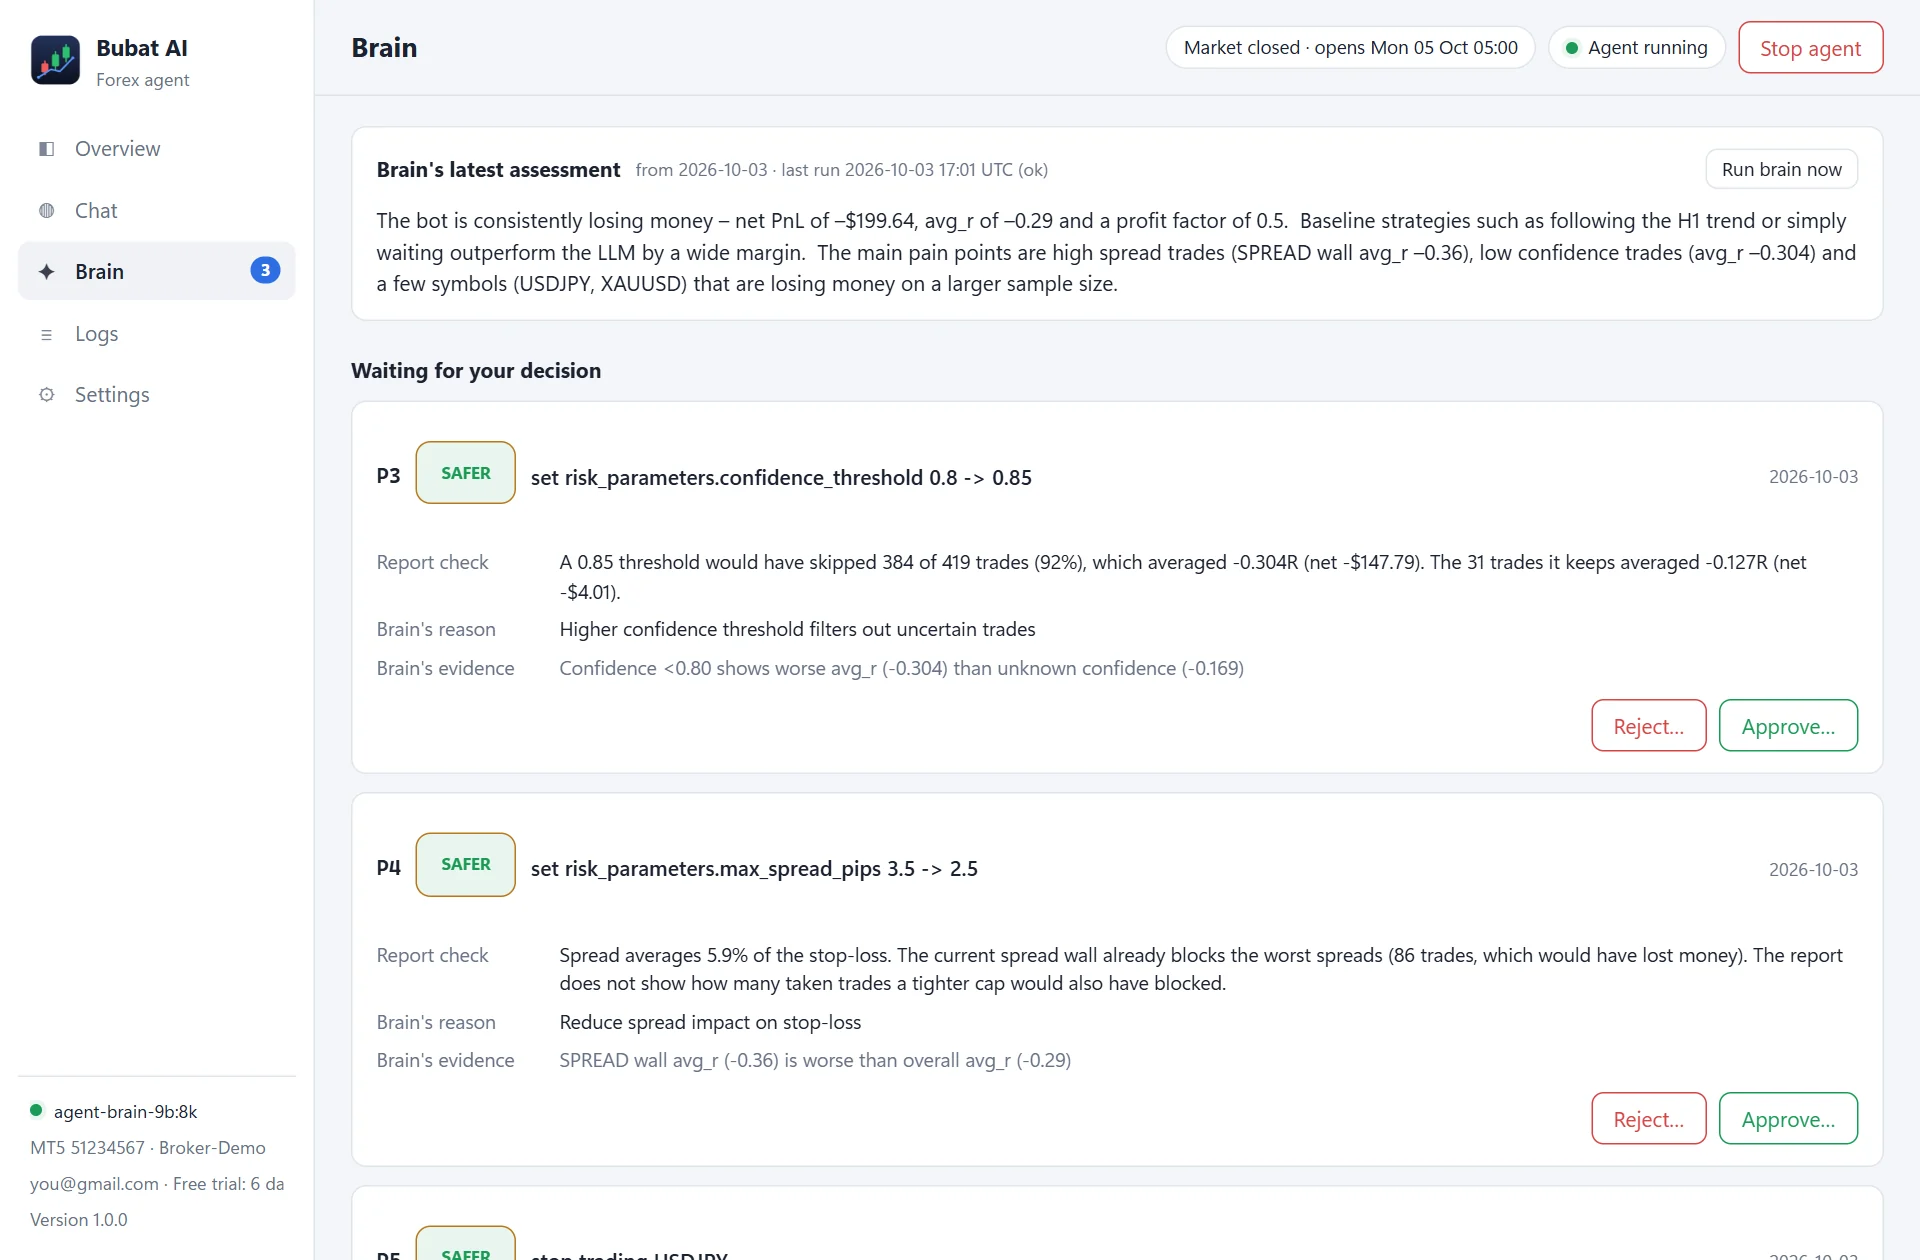
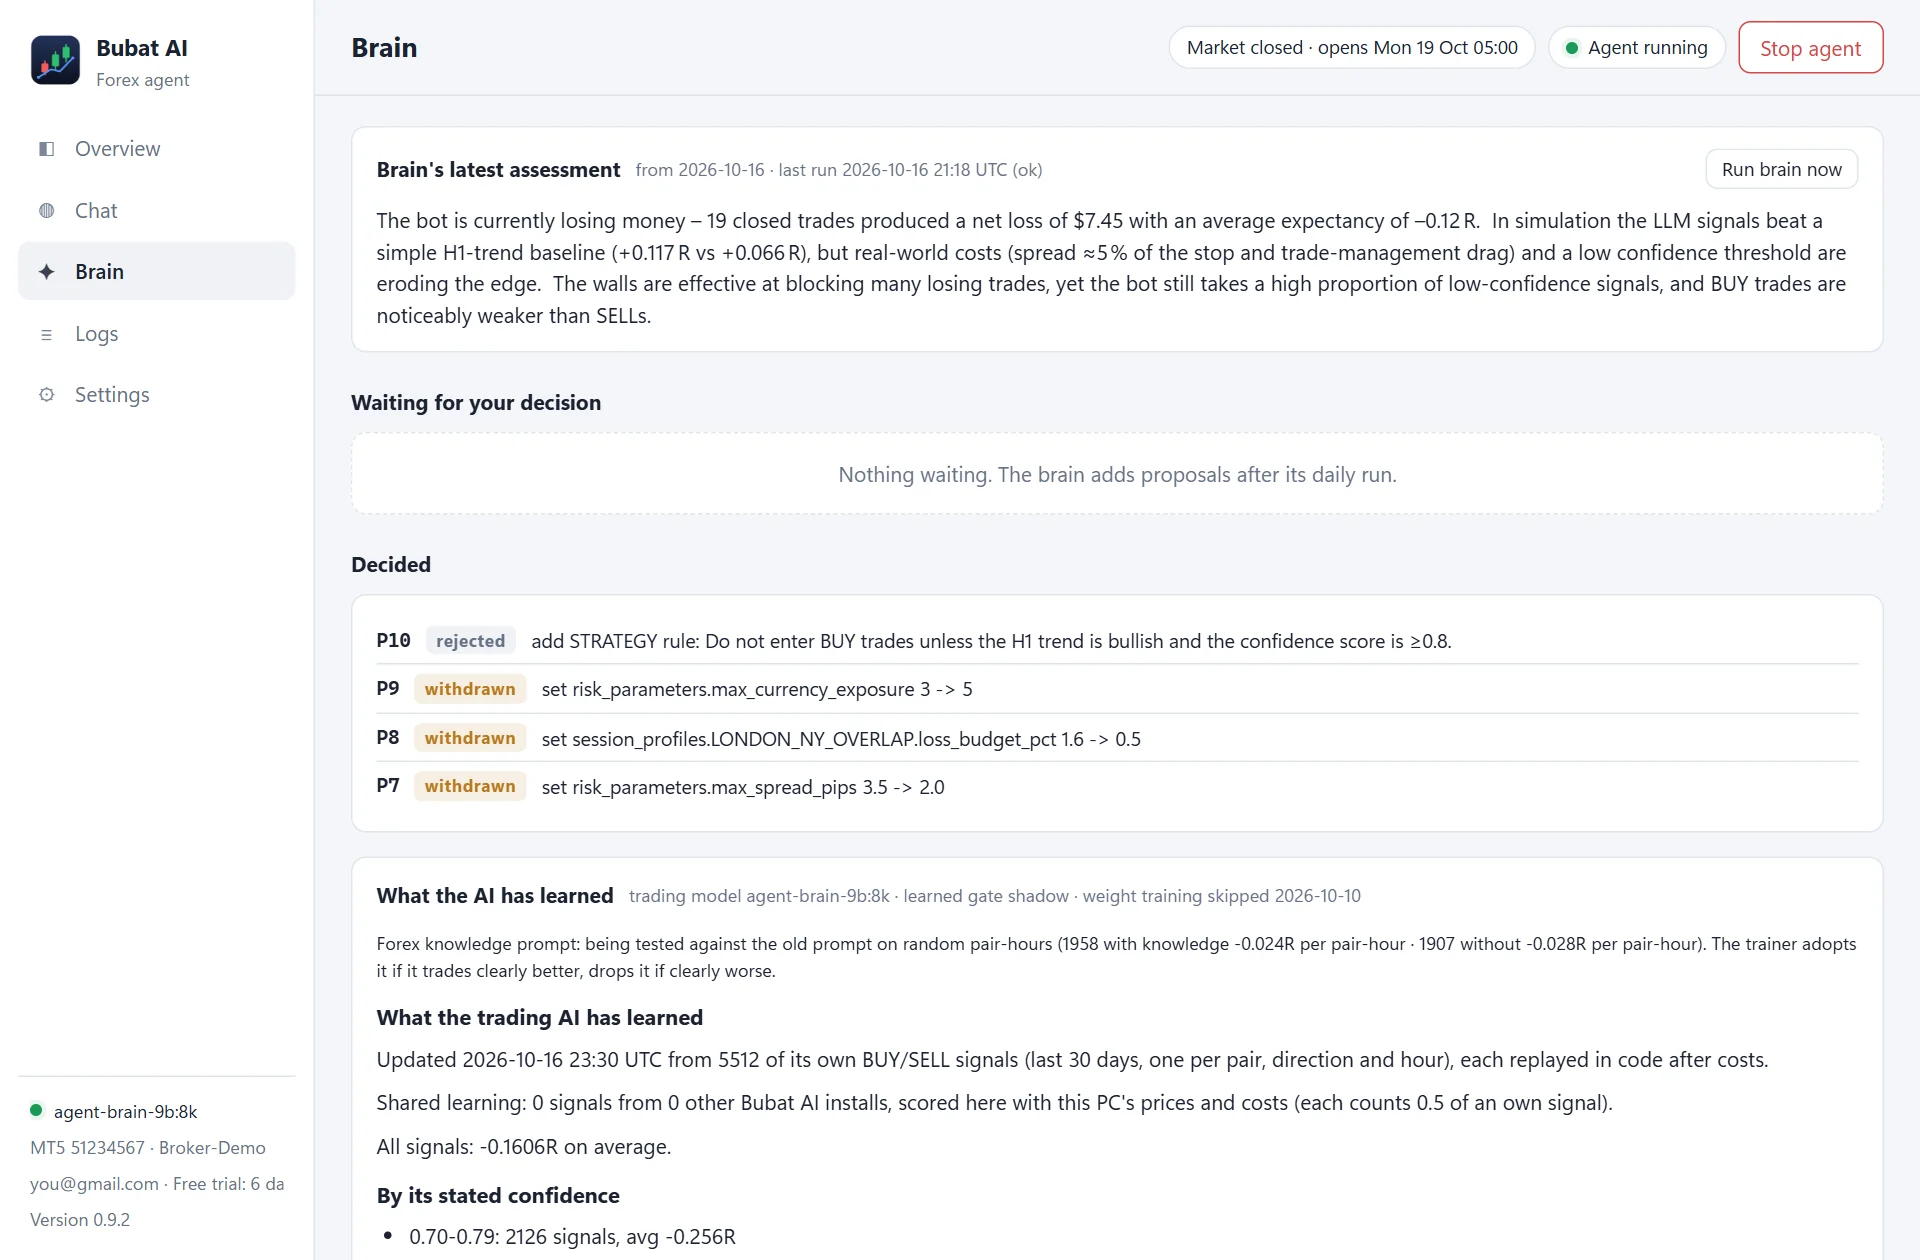
docs(web): Bubat AI guide screenshots from 0.9.2 (Lab trades, AI vs Strategy Lab card, Strategy Lab, edge study, Brain, wall log, settings, chat)

diff --git a/ea-budak-ubat-web/app/bubat-ai/page.js b/ea-budak-ubat-web/app/bubat-ai/page.js
@@ -116,6 +116,9 @@ function Section({ id, title, children }) {
 const IMG = "/bubat-ai/bubat-ai-";
 const WIDE = { width: 1920, height: 1260 };
 const SETUP = { width: 1554, height: 1104 };
+const SCORE = { width: 1533, height: 243 };
+const LAB = { width: 1533, height: 650 };
+const EDGE = { width: 1533, height: 558 };
 
 function Shot({ name, size = WIDE, alt, caption, eager }) {
   const src = `${IMG}${name}.webp`;
@@ -205,8 +208,8 @@ export default function BubatAIPage() {
           </p>
           <div id="top-shot" style={{ marginTop: "34px", scrollMarginTop: "100px" }}>
             <Shot name="overview" eager
-                  alt="Bubat AI Overview screen: balance, equity, health check, agent status and five open demo positions with stop loss and take profit"
-                  caption="The Overview screen on a demo account: balance, the health check, agent status and the bot's open trades, each with a stop loss and take profit. All screenshots on this page are from the real app on a demo account; the account number, broker and email are replaced." />
+                  alt="Bubat AI Overview screen: balance, equity, health check, agent status and open demo positions, the first ones tagged Lab S0118"
+                  caption="The Overview screen on a demo account (17 October 2026): balance, the health check, agent status and the bot's open trades, each with a stop loss and take profit. Trades tagged Lab S0118 come from the Strategy Lab's daily breakout strategy. All screenshots on this page are from the real app on a demo account; the account number, broker and email are replaced." />
           </div>
         </div>
       </section>
@@ -259,6 +262,9 @@ export default function BubatAIPage() {
               worse. A newer prompt that teaches it how its trades really work is still being measured against the old
               one on live decisions; it waits much more and has too few signals to judge yet.
             </p>
+            <Shot name="edge" size={EDGE}
+                  alt="Edge study card on the Brain tab: 3968 past moments; old prompt NO EDGE, knowledge prompt INCONCLUSIVE, compared with following the H1 trend, always buy and always sell"
+                  caption="The edge study on the Brain tab. Edge is the result minus what simply holding that side earned on the same pair, so riding a trend does not count as skill. The rule for the verdict was fixed before the study ran." />
             <p>
               So trading is moving, step by step, from the AI&apos;s calls to rule-based strategies that pass the{" "}
               <a href="#lab">Strategy Lab</a>&apos;s tests. The first one, a daily breakout strategy that only buys,
@@ -440,8 +446,8 @@ export default function BubatAIPage() {
               <li>Ideas that would need a code change are listed separately, as suggestions only.</li>
             </ul>
             <Shot name="brain"
-                  alt="Brain tab: the latest assessment and proposals P3 and P4, each labelled SAFER with a report check, reason, evidence and Reject or Approve buttons"
-                  caption="The Brain tab. Each proposal shows the exact change, a SAFER or RISKIER label set by code, a report check computed from your real results, and the brain's own reason. Nothing changes until you press Approve." />
+                  alt="Brain tab: the latest assessment, nothing waiting for a decision, and decided proposals: P10 rejected, P7 to P9 withdrawn"
+                  caption="The Brain tab: the latest assessment, then the proposals. Nothing is waiting here; P10 was rejected by the owner (it repeated rules already in force) and P7 to P9 withdrew themselves when a fresh replay no longer supported them. A waiting proposal shows the change, a SAFER or RISKIER label, the replay and Approve / Reject buttons." />
           </Section>
 
           <Section id="lab" title="The Strategy Lab">
@@ -466,6 +472,12 @@ export default function BubatAIPage() {
               Overview&apos;s <strong>AI vs Strategy Lab</strong> card scores both side by side on your account (closed
               trades, average R, win rate, net result), and the Brain tab lists what the Lab is testing and why ideas failed.
             </p>
+            <Shot name="lab" size={LAB}
+                  alt="Strategy Lab card on the Brain tab: 388 strategies tested, S0118 Daily Breakout Buy-Only Low live, the closest failed ideas with the reason each failed"
+                  caption="The Strategy Lab card on the Brain tab: S0118 is live; below it, the closest misses and why each failed (too few trades, or not enough above drift on the years it was not built from)." />
+            <Shot name="scoreboard" size={SCORE}
+                  alt="AI vs Strategy Lab card: since 11 October, AI 20 closed trades at -0.163R, Strategy Lab 2 closed trades at -1.000R"
+                  caption="The AI vs Strategy Lab card on the Overview, scored the same way over the same period. On 17 October the Lab had only 2 closed trades (both at the stop) and 7 still open: far too few to judge." />
           </Section>
 
           <Section id="never" title="What the AI can never do">
@@ -501,8 +513,8 @@ export default function BubatAIPage() {
             </p>
             <Table head={["#", "Wall", "What it does"]} rows={WALLS.map((w, i) => [i + 1, w[0], w[1]])} />
             <Shot name="logs"
-                  alt="Logs tab, Trades log: a list of trades refused by the safety walls for counter-trend direction, spread too wide, and the gold balance minimum"
-                  caption="The walls at work in Logs, then Trades: signals refused because they went against the 1-hour trend, the spread was wider than 3.5 pips, or the balance was under $300 for gold. Every refusal is written down with its reason." />
+                  alt="Logs tab, Trades log: signals refused by the safety walls (max open trades, session profile, session slot cap, open risk cap) and one trade opened"
+                  caption="The walls at work in Logs, then Trades: signals refused because all 10 trade slots were full, the New York session was restricted after losing, its one slot was taken, or the day's open-risk budget was used up. One AUDUSD trade passed every wall and opened. Every refusal is written down with its reason." />
           </Section>
 
           <Section id="requirements" title="What you need">
@@ -586,7 +598,7 @@ export default function BubatAIPage() {
             />
             <p>The Overview is pictured <a href="#top-shot">at the top of this page</a>.</p>
             <Shot name="chat"
-                  alt="Chat tab: the question Why is the bot losing money? and the AI's answer listing win rate, net result, spread costs, weak sessions and symbols"
+                  alt="Chat tab: the question Why is the bot losing money? and the AI's answer with a table of trades, win rate, net result, expectancy and spread cost"
                   caption="A real Chat answer, from the local AI on this PC in about a minute. It reads the bot's own results, so it can tell you plainly where the losses come from." />
             <p><strong>Chat examples:</strong> &quot;Why is the bot losing money?&quot;, &quot;Give me entry, TP and SL for GBPUSD&quot;, &quot;Which pairs look best this session?&quot;. Commands: <code>think &lt;question&gt;</code> forces the deep model, <code>fast &lt;question&gt;</code> the quick one, <code>clear</code> resets the conversation, <code>approve P5</code> / <code>reject P5 reason</code> decide a proposal.</p>
             <p><strong>Start / Stop agent</strong> (top right) controls trading. <strong>Stop</strong> lets the agent finish its current step; open trades keep their stop loss and take profit in MetaTrader 5.</p>
@@ -595,8 +607,8 @@ export default function BubatAIPage() {
               <code>%LOCALAPPDATA%\Programs\Bubat AI\app\forex_local_agent\config.json</code>. Stop the agent, edit, then start it again. Your settings are kept when Bubat AI updates.
             </p>
             <Shot name="settings"
-                  alt="Settings tab: account and license (free trial, 6 days left), data sharing, updates, trading safety and setup"
-                  caption="Settings: your account and license, data sharing and deleting it, updates (with automatic weekend updates), and Run setup again." />
+                  alt="Settings tab: account and license (free trial, 6 days left), shared trades and signals, updates, automatic agent restart and start with Windows"
+                  caption="Settings: your account and license, sharing of trade results and signals (and deleting them), updates (optionally installed while the market is closed), automatic agent restart and starting with Windows." />
           </Section>
 
           <Section id="running" title="Keeping it running">
